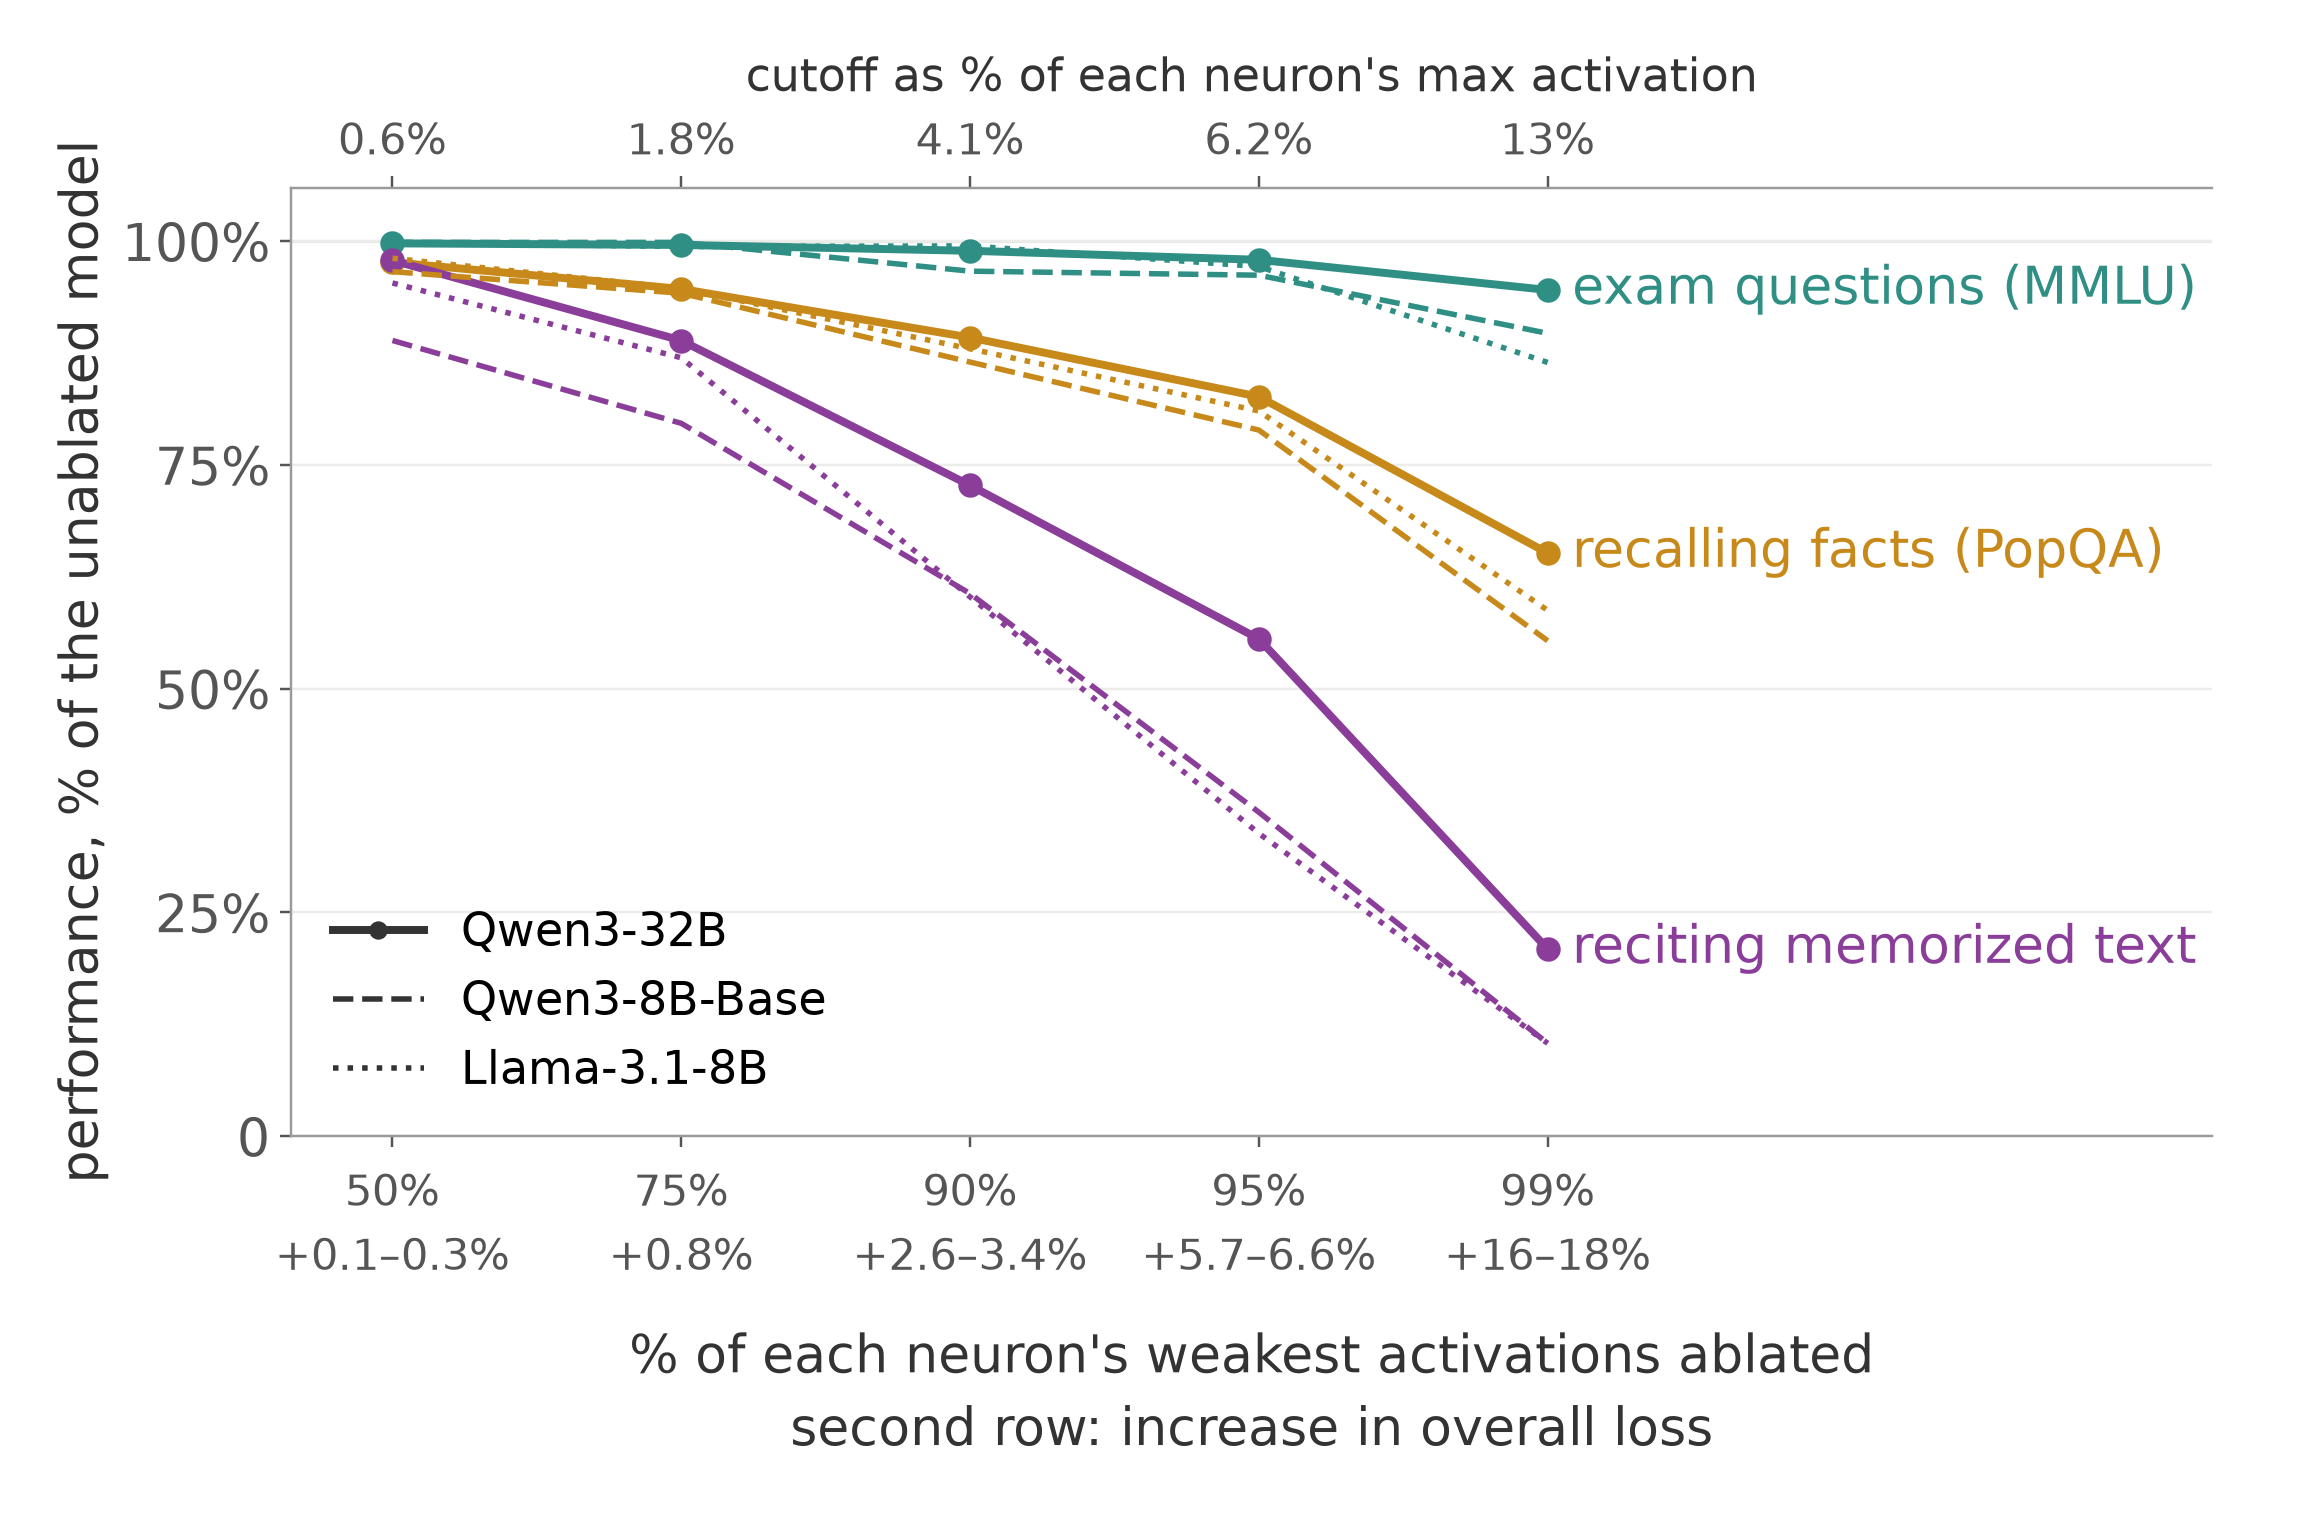
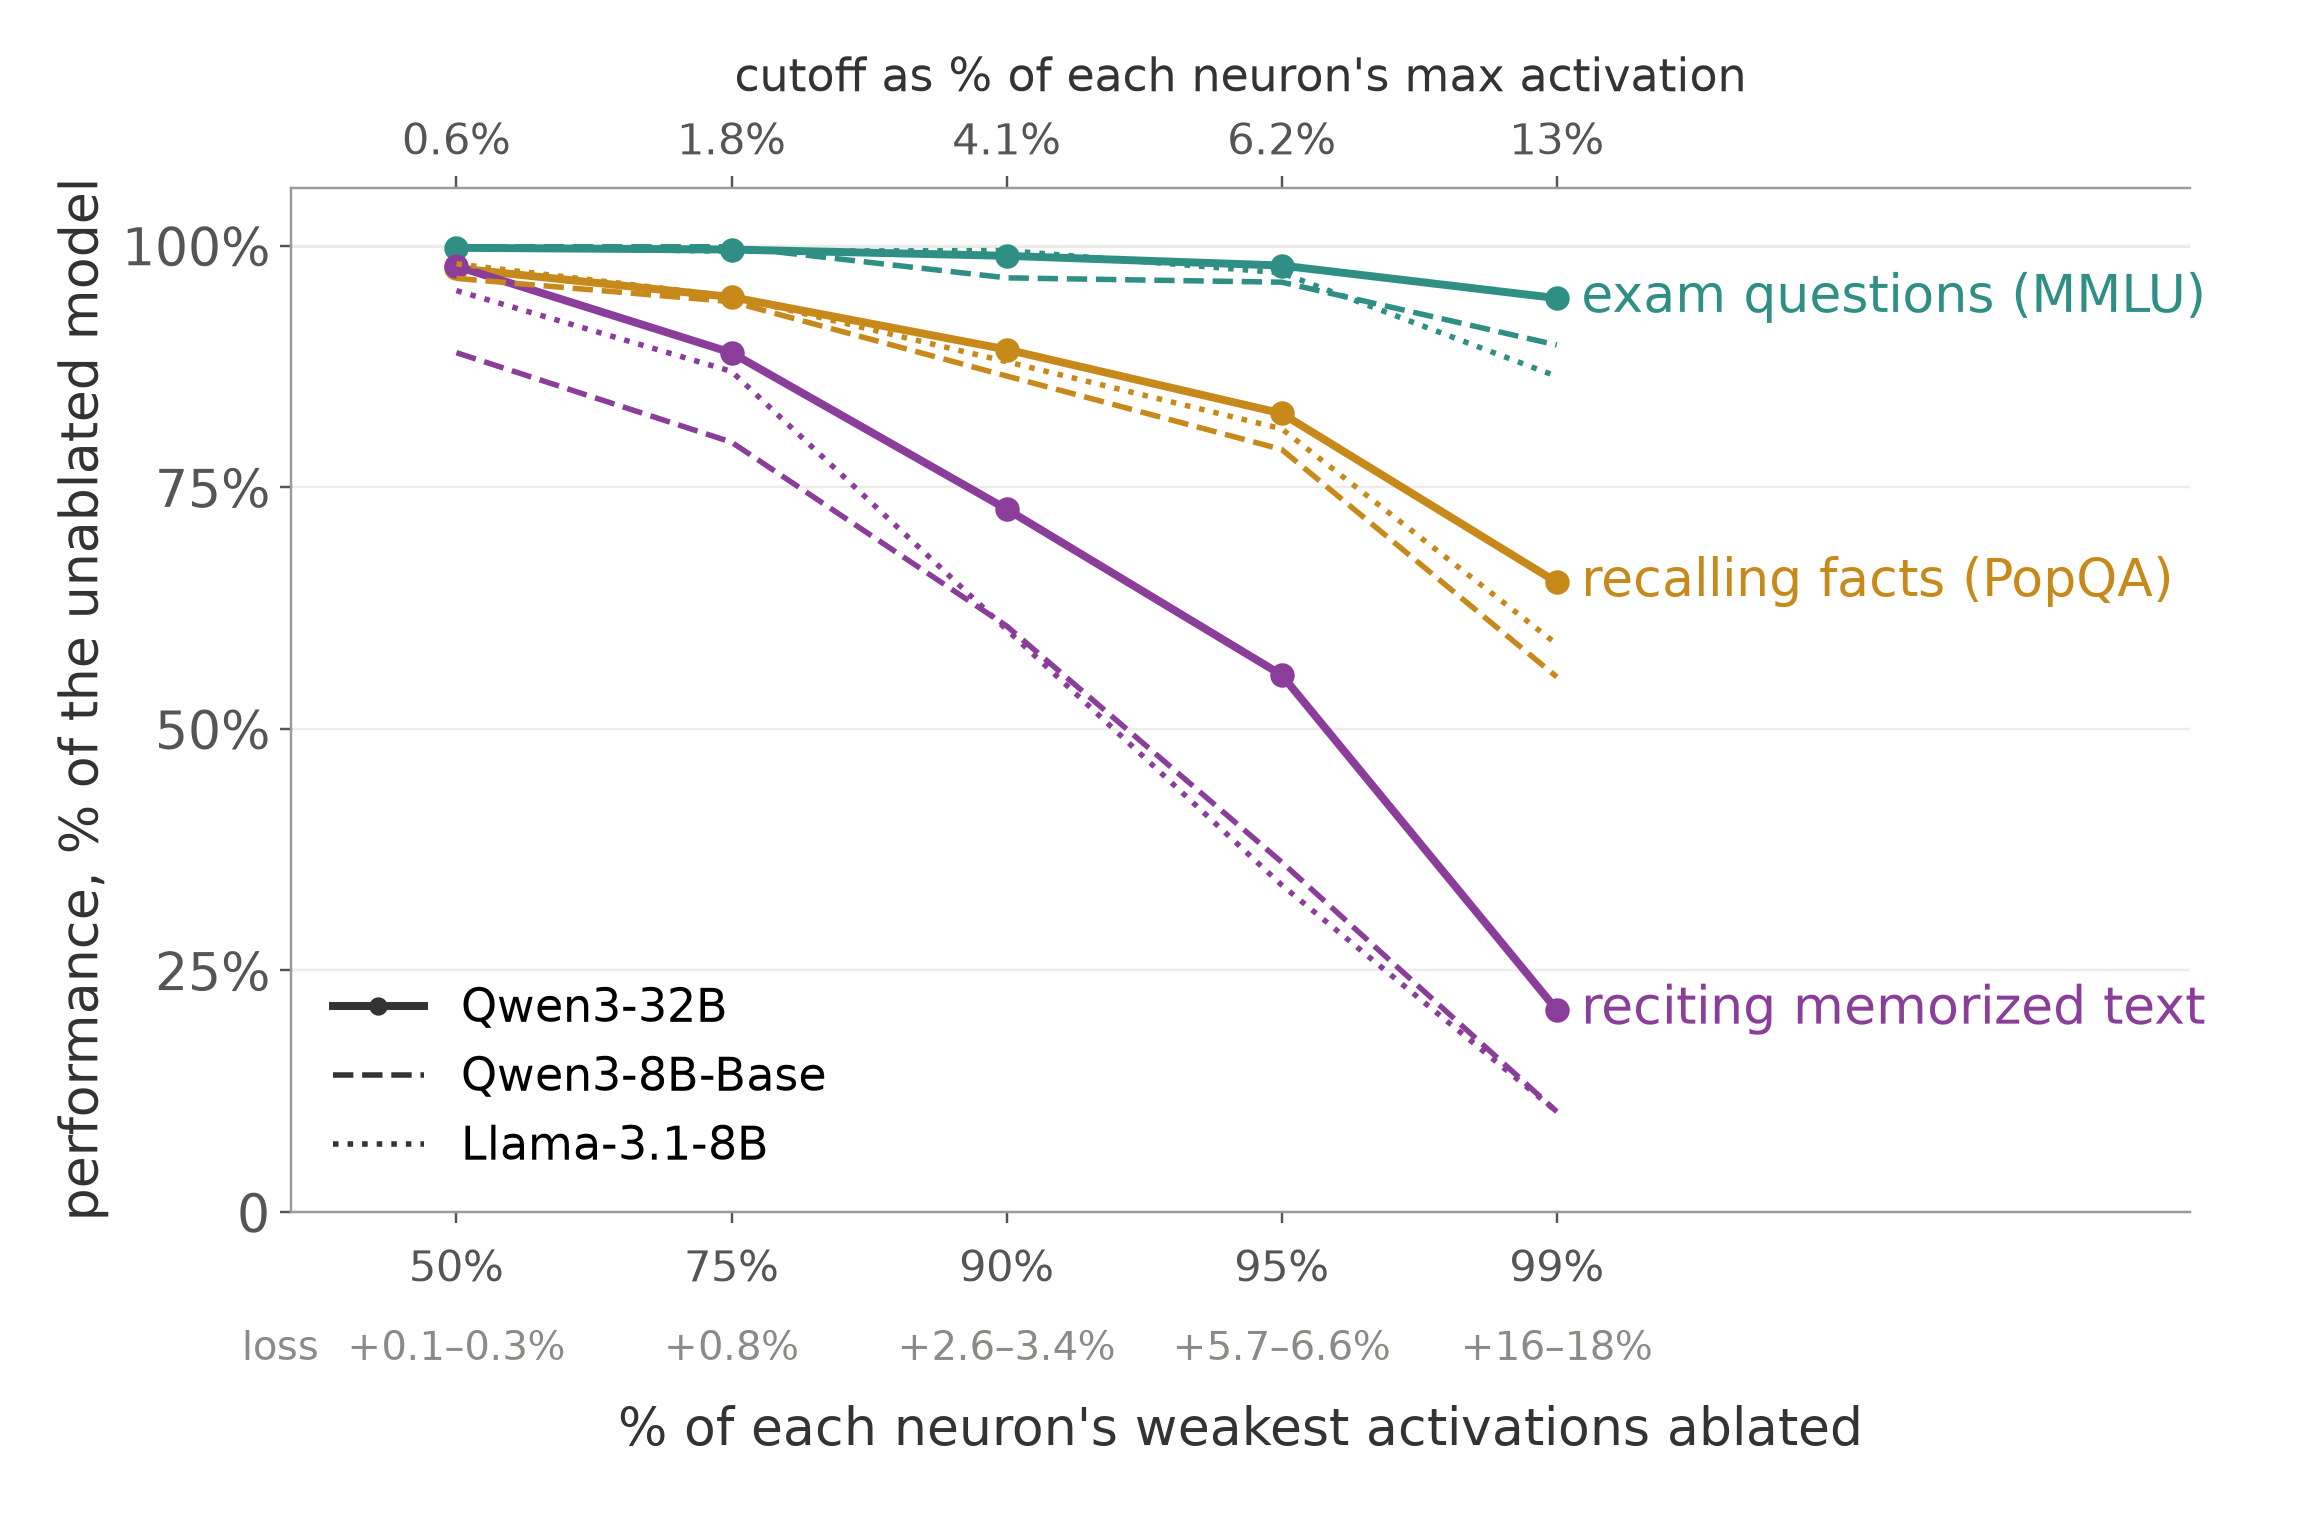
Tweet figure: loss as a labelled grey row under the ticks when the cutoff scale is on top

diff --git a/src/fig_tweet_all.py b/src/fig_tweet_all.py
@@ -37,7 +37,7 @@ LOSS = os.environ.get('LOSS', '') == '1'   # LOSS=1: held-out loss increase unde
 if LOSS:
     L = {q: [ {r['name']: r for r in json.load(open(os.path.join(ROOT, 'results', t, 'summary_rows.json')))}[f's1_q{q}_pp']['dloss_pct'] for t, *_ in MODELS] for q in qs}
     def rng(v): lo, hi = min(v), max(v); return f'+{lo:.1f}%' if f'{lo:.1f}' == f'{hi:.1f}' else (f'+{lo:.0f}\u2013{hi:.0f}%' if lo >= 10 else f'+{lo:.1f}\u2013{hi:.1f}%')
-    labels = [f'{q}%\n{rng(L[q])}' for q in qs]
+    labels = [f'{q}%' for q in qs] if TOP else [f'{q}%\n{rng(L[q])}' for q in qs]
 else: labels = [f'{q}%' for q in qs]
 import statistics
 T = json.load(open(os.path.join(ROOT, 'results', 'thr_vs_max.json')))
@@ -50,10 +50,13 @@ if TOP:
     top.spines['top'].set_color('#9a9a9a'); top.tick_params(colors='#555', length=4)
     top.set_xlabel("cutoff as % of each neuron's max activation", labelpad=10, fontsize=15, color=INK)
 ax.set_xticks(x); ax.set_xticklabels(labels, fontsize=14 if (LOSS or THR) else 15.5, linespacing=1.5)
-ax.set_xlim(-0.35, len(qs) - 0.6 + 1.9); ax.set_ylim(0, 106); ax.set_yticks([0, 25, 50, 75, 100]); ax.set_yticklabels(['0', '25%', '50%', '75%', '100%'])
-rows_note = [n for n, on in [('increase in overall loss', LOSS), ("cutoff as % of the neuron's max activation", THR)] if on]
+ax.set_xlim(-0.6 if (LOSS and TOP) else -0.35, len(qs) - 0.6 + 1.9); ax.set_ylim(0, 106); ax.set_yticks([0, 25, 50, 75, 100]); ax.set_yticklabels(['0', '25%', '50%', '75%', '100%'])
+if LOSS and TOP:   # loss as small self-labelled grey annotations under the ticks, so the axis title stays one line
+    for xi, q in zip(x, qs): ax.text(xi, -0.115, rng(L[q]), transform=ax.get_xaxis_transform(), ha='center', va='top', fontsize=13, color='#8a8a86')
+    ax.text(-0.5, -0.115, 'loss', transform=ax.get_xaxis_transform(), ha='right', va='top', fontsize=13, color='#8a8a86')
+rows_note = [n for n, on in [('increase in overall loss', LOSS and not TOP), ("cutoff as % of the neuron's max activation", THR)] if on]
 note = '' if not rows_note else ('\nsecond row: ' + rows_note[0] if len(rows_note) == 1 else '\nsecond row: ' + rows_note[0] + ',\nthird row: ' + rows_note[1])
-ax.set_xlabel("% of each neuron's weakest activations ablated" + note, labelpad=10, linespacing=1.4); ax.set_ylabel('performance, % of the unablated model')
+ax.set_xlabel("% of each neuron's weakest activations ablated" + note, labelpad=(30 if (LOSS and TOP) else 10), linespacing=1.4); ax.set_ylabel('performance, % of the unablated model')
 ax.grid(axis='y', color='#ececea')
 ax.legend(handles=[Line2D([], [], color=INK, ls=ls, lw=lw, marker='o' if ls == '-' else None, ms=5, label=m) for _, m, ls, lw in MODELS], frameon=False, loc='lower left', fontsize=15)
 fig.tight_layout(); out = os.path.join(ROOT, 'figures', OUT); fig.savefig(out, dpi=220); print('wrote', out)
